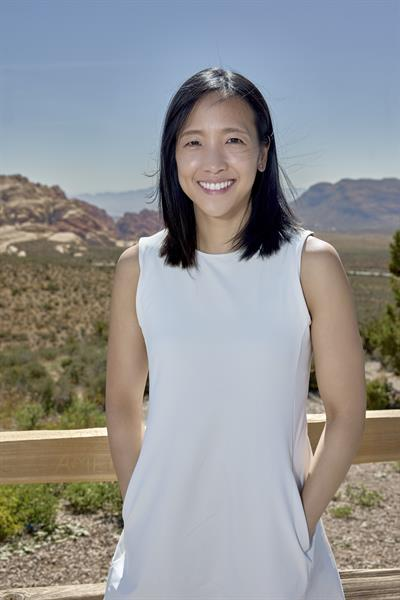
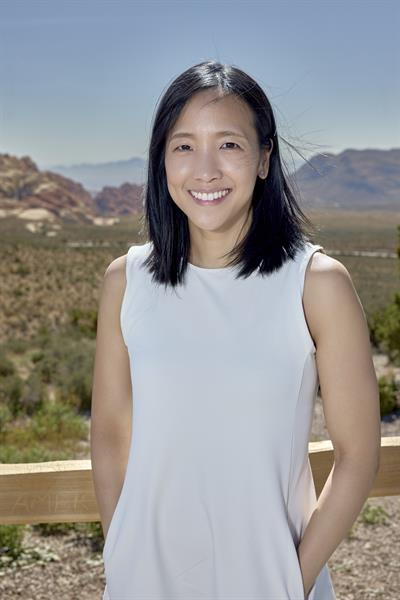
feat: swap out profile picture with PMC Pic2 crop and increase map section width

diff --git a/style.css b/style.css
@@ -1288,6 +1288,11 @@ body.dark-mode .floating-dock {
     padding: 40px 0;
 }
 
+.travel-map-section .section-header {
+    max-width: 1000px;
+    margin-bottom: 24px;
+}
+
 .map-container {
     position: relative;
     width: 100%;
